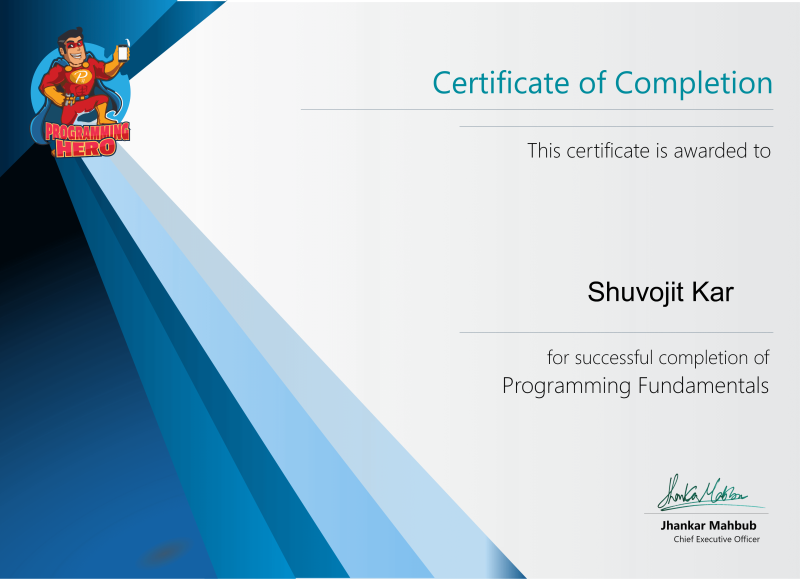
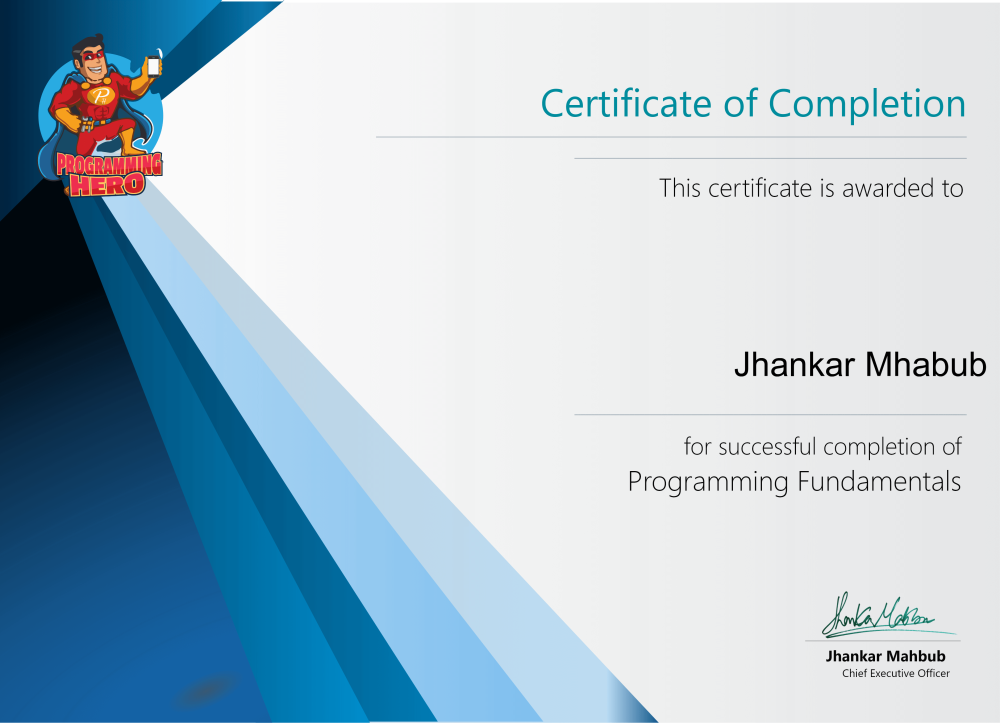
new Commit

diff --git a/controllers/certificate.js b/controllers/certificate.js
@@ -8,7 +8,7 @@ module.exports={
      try {
         var loadedImage = await jimp.read(fileName);
         var font = await jimp.loadFont(jimp.FONT_SANS_128_BLACK);
-        await loadedImage.print(font, loadedImage.bitmap.width-1000,1300,req.body.name).resize(800, jimp.AUTO).write('output.png');
+        await loadedImage.print(font, loadedImage.bitmap.width-1000,1300,req.body.name).resize(1000, jimp.AUTO).write('output.png');
         var result = await imgur.uploadFile("output.png")
         res.status(200).send(result.data.link)
     } catch(e) {
